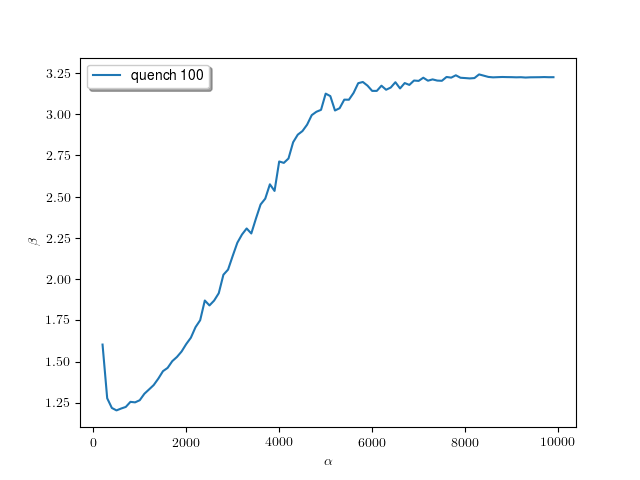
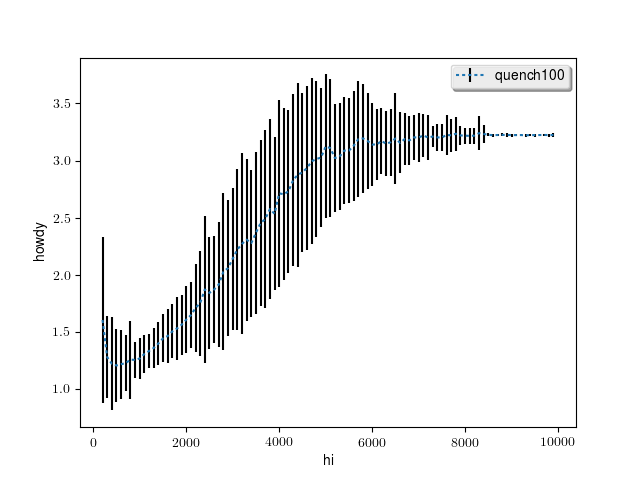
Add the colormap, add the linestyle option

diff --git a/tuplot2.py b/tuplot2.py
@@ -3,10 +3,14 @@ import matplotlib.pyplot as plt
 import pandas as pd
 import re
 from matplotlib import rc
-rc('font',**{'family':'sans-serif','sans-serif':['Helvetica']})
-## for Palatino and other serif fonts use:
-#rc('font',**{'family':'serif','serif':['Palatino']})
+rc('font', **{'family': 'sans-serif', 'sans-serif': ['Helvetica']})
+# for Palatino and other serif fonts use:
+# rc('font',**{'family':'serif','serif':['Palatino']})
 rc('text', usetex=True)
+
+tudfarben = {"blau": "#005AA9", "hellblau": "#0083CC", "tuerkis": "#009D81", "gruen": "#99C000", "gruengelb": "#C9D400",
+             "gelb": "#FDCA00", "orange": "#F5A300", "orangerot": "#EC6500", "rot": "#E6001A", "lila": "#A60084", "lilablau": "#721085"}
+
 
 parser = argparse.ArgumentParser(
     description="Obtain the names of the files to process from command line, split up into the core name, the numbers and the file extension. The defaults are av_cluster_radius_[35, 50, 75, 100].txt so if you just run the program with no arguments at all, it will do the standard plot. ")
@@ -28,7 +32,11 @@ parser.add_argument("-eb", "--errorbar",
                     help="Toggle the errorbars.", action="store_true")
 
 
-parser.add_argument("--latex", help = "Provide latex strings (space separated) to style the axis titles. The titles need to be entered surrounded by quotation marks to respect latex syntax." , nargs = 2)
+parser.add_argument("--latex", help="Provide latex strings (space separated) to style the axis titles. The titles need to be entered surrounded by quotation marks to respect latex syntax.", nargs=2)
+
+parser.add_argument("-ls", "--linestyle",
+                    help="Set the linestyle of the plot. For example: dotted ..., loosely dotted . . ., dashed ---. Default is solid, which is just a continuous line.", default="solid")
+
 args = parser.parse_args()
 manual_filenames = args.filename
 prefix = args.fileprefix
@@ -37,7 +45,15 @@ numbers = args.numbers
 xtitle = args.xaxis
 ytitle = args.yaxis
 errorbars_on = args.errorbar
-latex = args.latex 
+latex = args.latex
+line = args.linestyle
+# This requires that the default numbers are used. A more flexible solution will be added.
+default_colors = dict.fromkeys(numbers)
+default_colors[35] = tudfarben["rot"]
+default_colors[50] = tudfarben["lila"]
+default_colors[75] = tudfarben["orange"]
+default_colors[100] = tudfarben["gruen"]
+
 # Generate a list of filenames from the command line arguments. This only works with files that only differ in a number that is contained in them which is stored in list numbers. This seems like an inconvenient way of doing this, but it saves a lot of typing when using the program.
 myfiles = [prefix + number +
            extension for number in numbers]
@@ -52,11 +68,11 @@ for myfile, number in zip(myfiles, numbers):
 for key, value in alldata.items():
     if errorbars_on:
         plt.errorbar(value['x'], value['y'],
-                     value['eb'], label="quench" + key)
+                     value['eb'], label="quench" + key, linestyle=line, color=default_colors[key])
 
     else:
-        plt.plot(value['x'], value['y'], label="quench " + key)
-
+        plt.plot(value['x'], value['y'],
+                 label="quench " + key, linestyle=line, color=default_colors[key])
 
 
 plt.legend(shadow=True)
